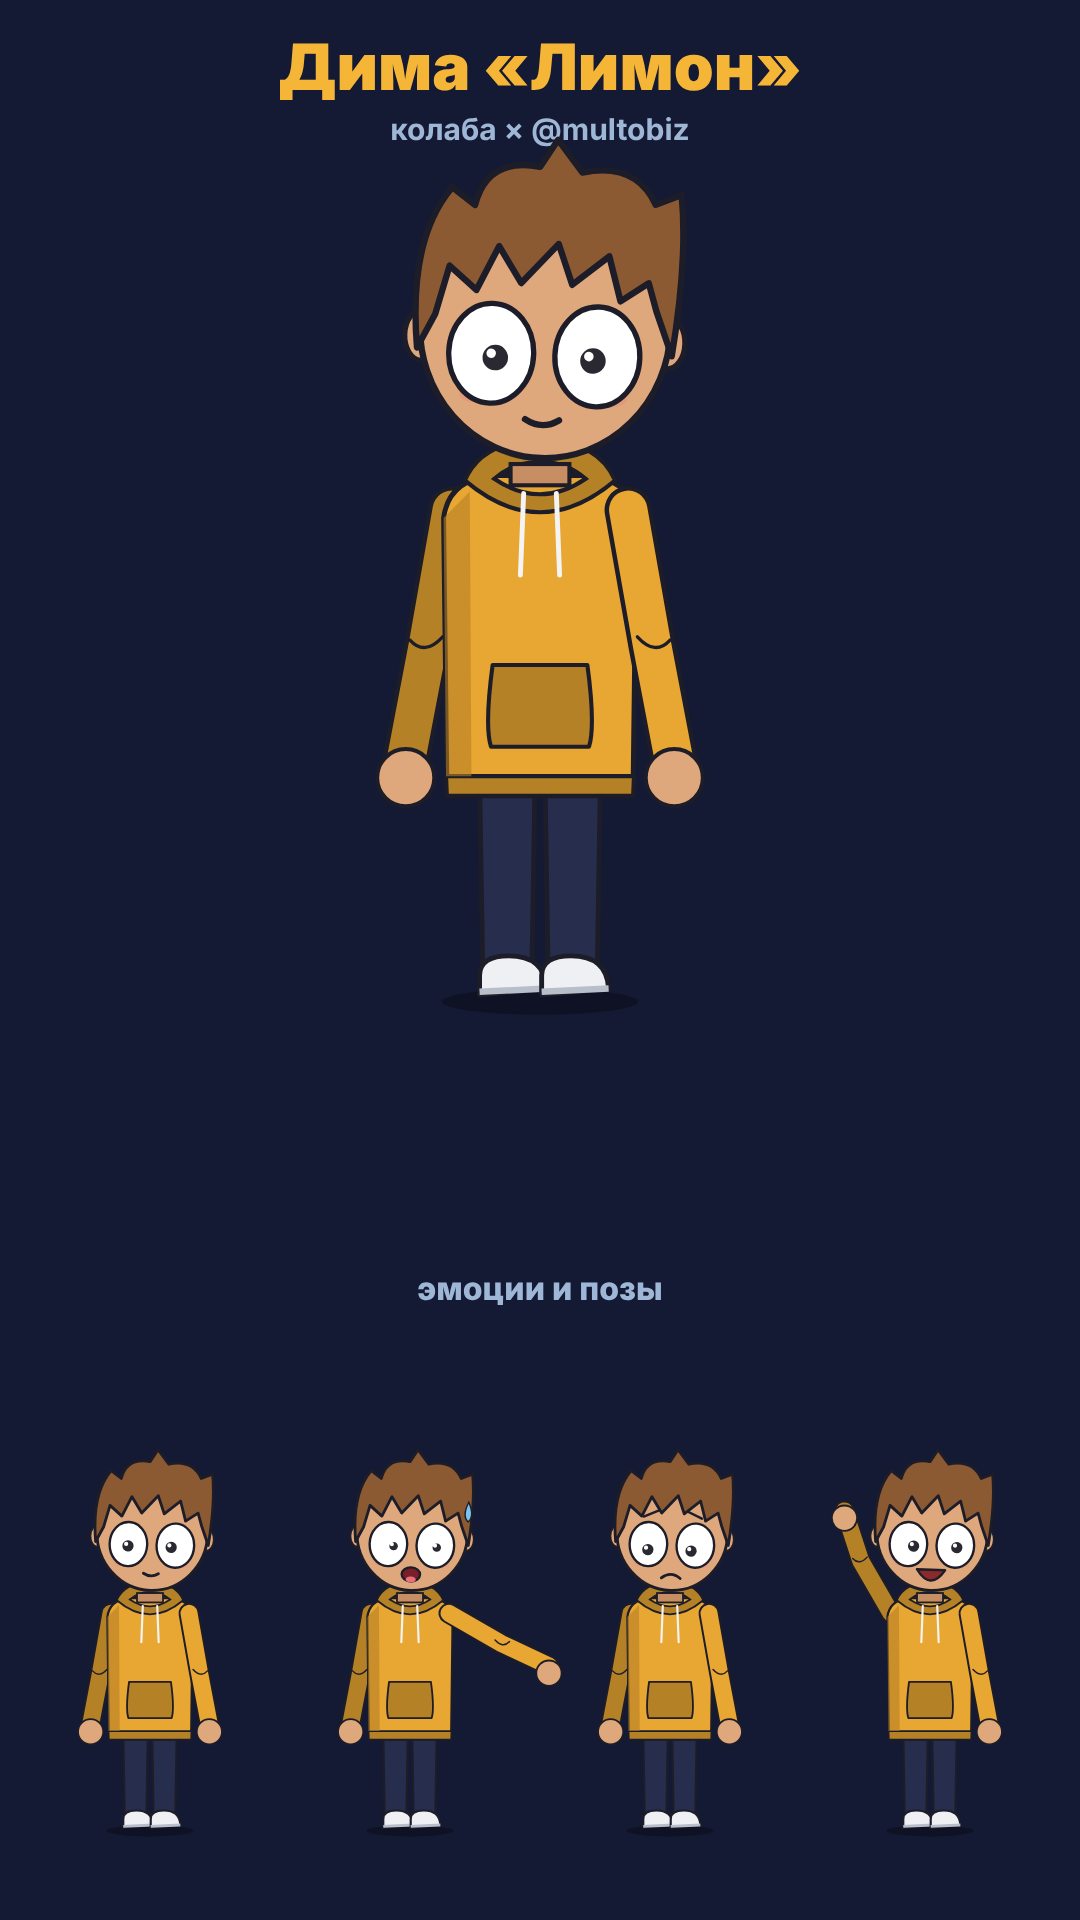
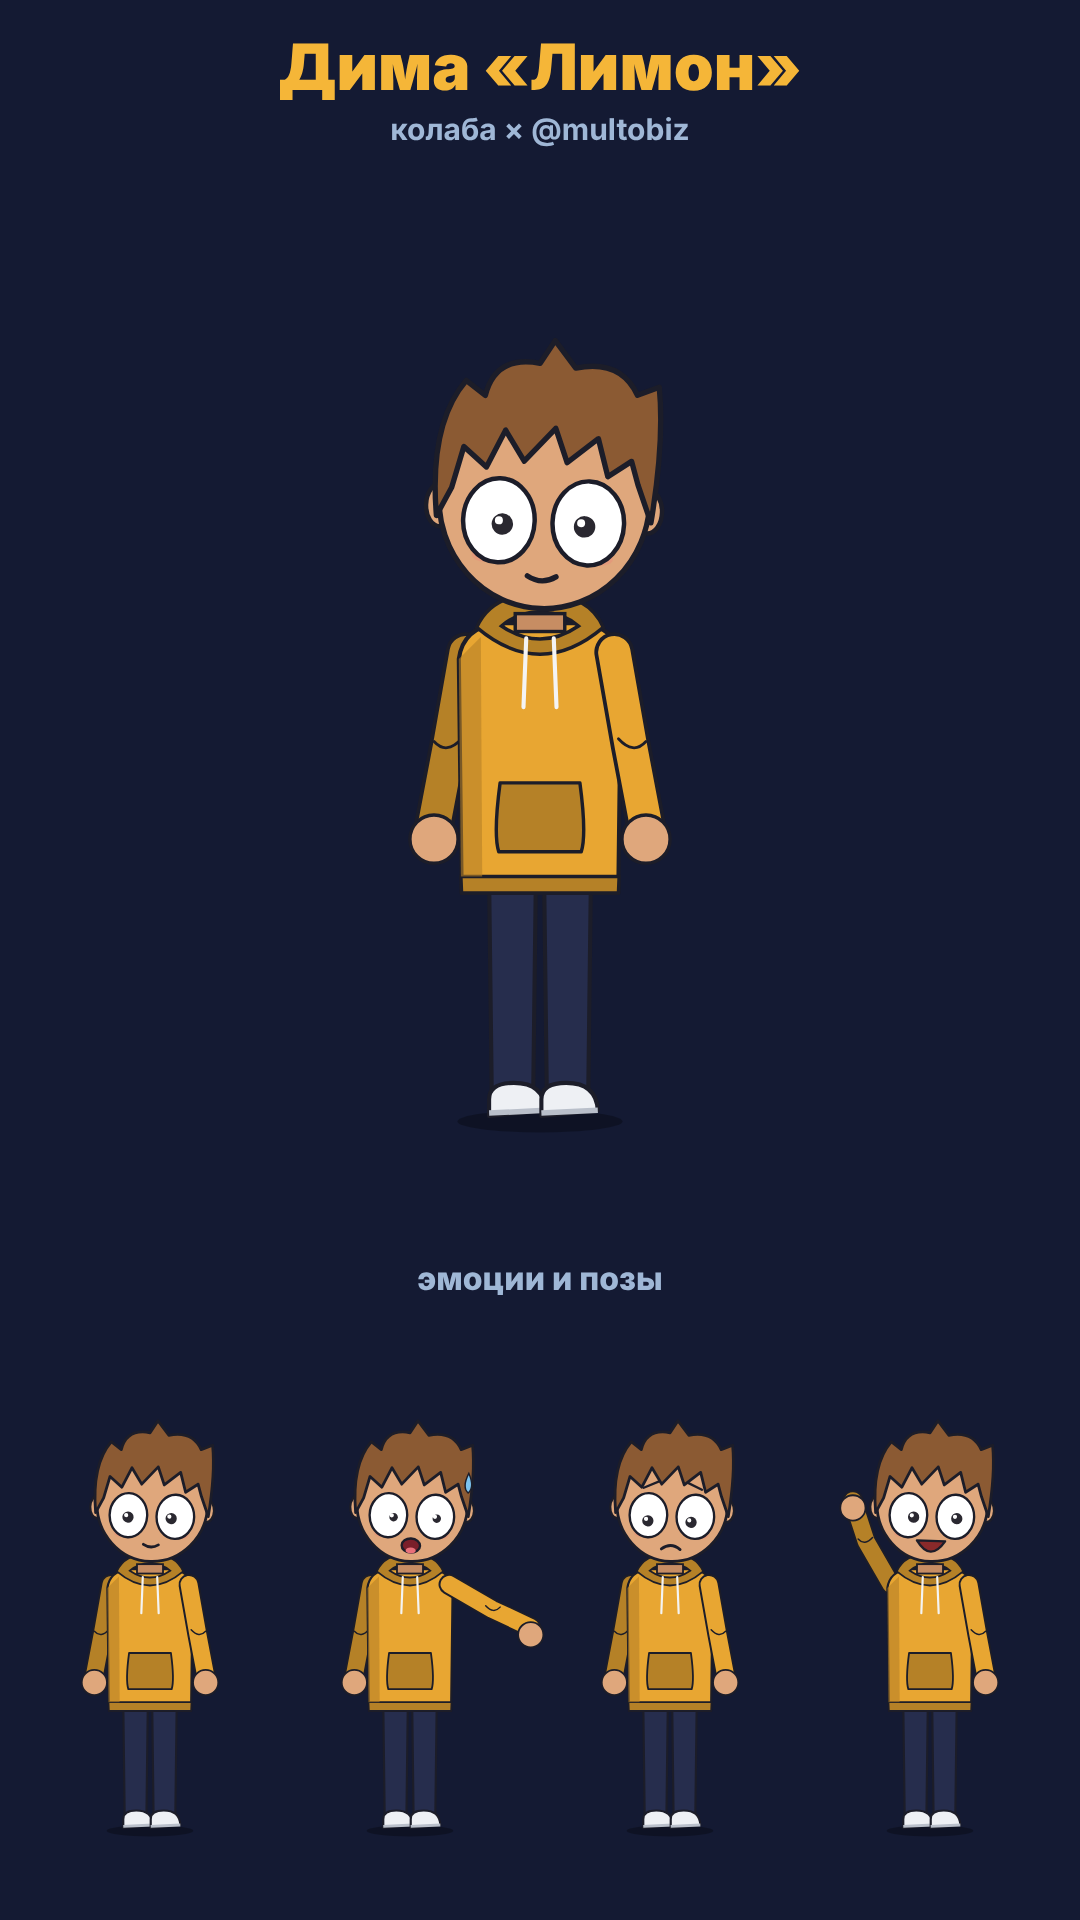
Колаба: руки короче, ноги длиннее
Claude-Session: https://claude.ai/code/session_01FMPcn1gTY6X1SxnGQfzkF6

diff --git a/videos/dvazhdy/src/series/Collab01.tsx b/videos/dvazhdy/src/series/Collab01.tsx
@@ -82,10 +82,10 @@ const Kid: React.FC<KidP> = ({x, y, s = 1, t, hair = '#7a4a2a', top = '#e8a632',
 		const a = ((ang + (side > 0 ? st : -st) * 18) * Math.PI) / 180;
 		const sx = side * 108;
 		const sy = -440;
-		const ex = sx + side * Math.sin(a) * 168;
-		const ey = sy + Math.cos(a) * 168;
-		const hx = ex + side * Math.sin(a * 1.08) * 145;
-		const hy = ey + Math.cos(a * 1.08) * 145;
+		const ex = sx + side * Math.sin(a) * 138;
+		const ey = sy + Math.cos(a) * 138;
+		const hx = ex + side * Math.sin(a * 1.08) * 118;
+		const hy = ey + Math.cos(a * 1.08) * 118;
 		return (
 			<g>
 				<path d={`M ${sx} ${sy} L ${ex} ${ey} L ${hx} ${hy}`} stroke={L} strokeWidth={58} strokeLinecap="round" strokeLinejoin="round" fill="none" />
@@ -103,8 +103,8 @@ const Kid: React.FC<KidP> = ({x, y, s = 1, t, hair = '#7a4a2a', top = '#e8a632',
 		);
 	};
 	const leg = (side: -1 | 1) => (
-		<g transform={`rotate(${(side > 0 ? st : -st) * 12} ${side * 38} -250)`}>
-			<path d={`M ${side * 40 - 34} -270 L ${side * 40 + 34} -270 L ${side * 40 + 30} -26 L ${side * 40 - 30} -26 Z`} fill={pants} stroke={L} strokeWidth={6} strokeLinejoin="round" />
+		<g transform={`rotate(${(side > 0 ? st : -st) * 12} ${side * 38} -330)`}>
+			<path d={`M ${side * 40 - 34} -350 L ${side * 40 + 34} -350 L ${side * 40 + 30} -26 L ${side * 40 - 30} -26 Z`} fill={pants} stroke={L} strokeWidth={6} strokeLinejoin="round" />
 			<path d={`M ${side * 38 - 36} -30 Q ${side * 38 - 36} -54 ${side * 38} -54 Q ${side * 38 + 44} -54 ${side * 38 + 46} -14 L ${side * 38 - 36} -6 Z`} fill="#eef0f4" stroke={L} strokeWidth={6} strokeLinejoin="round" />
 			<path d={`M ${side * 38 - 36} -10 L ${side * 38 + 46} -14`} stroke="#b9bfca" strokeWidth={8} />
 		</g>
@@ -135,7 +135,7 @@ const Kid: React.FC<KidP> = ({x, y, s = 1, t, hair = '#7a4a2a', top = '#e8a632',
 			<ellipse cx={0} cy={2} rx={120} ry={16} fill="#000" opacity={0.28} />
 			{leg(-1)}
 			{leg(1)}
-			<g transform="translate(0 -160)">
+			<g transform="translate(0 -240)">
 				{arm(-1, armL)}
 				{/* hoodie: longer torso */}
 				<path d={`M -60 -482 Q -112 -476 -118 -430 L ${-114 + breathe * 0.3} -90 L ${114 - breathe * 0.3} -90 L 118 -430 Q 112 -476 60 -482 Z`} fill={top} stroke={L} strokeWidth={6} strokeLinejoin="round" />
@@ -710,7 +710,7 @@ export const CollabSheet: React.FC = () => {
 		<g>
 			<text x={y < 700 ? 250 : 20} y={y < 700 ? y - 440 : y - 190} fontFamily="Inter" fontWeight={900} fontSize={y < 700 ? 40 : 32} fill="#f5b638">{name.split(' · ').map((q, k) => <tspan key={k} x={y < 700 ? 250 : 20} dy={k ? 40 : 0}>{q}</tspan>)}</text>
 			{faces.map((f, i) => (
-				<Kid key={i} x={330 + i * 200} y={y} s={0.38} t={t} {...(p as object)} face={f} look={i % 2 ? 0.5 : -0.3} talk={f === 'neutral' && i === 1 ? 0.6 : 0} />
+				<Kid key={i} x={330 + i * 200} y={y} s={0.32} t={t} {...(p as object)} face={f} look={i % 2 ? 0.5 : -0.3} talk={f === 'neutral' && i === 1 ? 0.6 : 0} />
 			))}
 		</g>
 	);
@@ -723,8 +723,8 @@ export const CollabSheet: React.FC = () => {
 				{row(640, 'Дима «Лимон»', DIMA, ['neutral', 'neutral', 'shock', 'sad'])}
 				{row(1000, 'Артём', ARTEM, ['smirk', 'laugh', 'angry', 'worried'])}
 				{row(1360, 'Соня · Влад', SONYA, ['worried', 'happy'])}
-				<Kid x={730} y={1360} s={0.38} t={t} {...VLAD} face="smirk" armR={150} />
-				<Kid x={930} y={1360} s={0.38} t={t} {...VLAD} face="neutral" />
+				<Kid x={730} y={1360} s={0.32} t={t} {...VLAD} face="smirk" armR={150} />
+				<Kid x={930} y={1360} s={0.32} t={t} {...VLAD} face="neutral" />
 				{row(1760, 'Тренер', COACH, ['angry', 'neutral'])}
 			</svg>
 		</AbsoluteFill>
@@ -746,13 +746,13 @@ export const CollabSheetOne: React.FC<{who: number}> = ({who}) => {
 			<svg width={VW} height={VH} viewBox={`0 0 ${VW} ${VH}`}>
 				<text x={540} y={90} textAnchor="middle" fontFamily="Inter" fontWeight={900} fontSize={64} fill="#f5b638">{h.name}</text>
 				<text x={540} y={140} textAnchor="middle" fontFamily="Inter" fontWeight={700} fontSize={30} fill="#9fb7d6">колаба × @multobiz</text>
-				<Kid x={540} y={1000} s={0.95} t={t} {...(h.p as object)} face={h.faces[0]} armL={10} armR={who === 4 ? 150 : 10} />
+				<Kid x={540} y={1120} s={0.8} t={t} {...(h.p as object)} face={h.faces[0]} armL={10} armR={who === 4 ? 150 : 10} />
 				{h.faces.map((f, i) => (
 					<g key={i}>
 						<Kid x={150 + i * 260} y={1830} s={0.42} t={t} {...(h.p as object)} face={f} armL={i === 3 ? 150 : 10} armR={i === 1 ? 60 : 10} look={i % 2 ? 0.6 : -0.4} talk={i === 1 ? 0.6 : 0} />
 					</g>
 				))}
-				<text x={540} y={1300} textAnchor="middle" fontFamily="Inter" fontWeight={800} fontSize={32} fill="#9fb7d6">эмоции и позы</text>
+				<text x={540} y={1290} textAnchor="middle" fontFamily="Inter" fontWeight={800} fontSize={32} fill="#9fb7d6">эмоции и позы</text>
 			</svg>
 		</AbsoluteFill>
 	);
